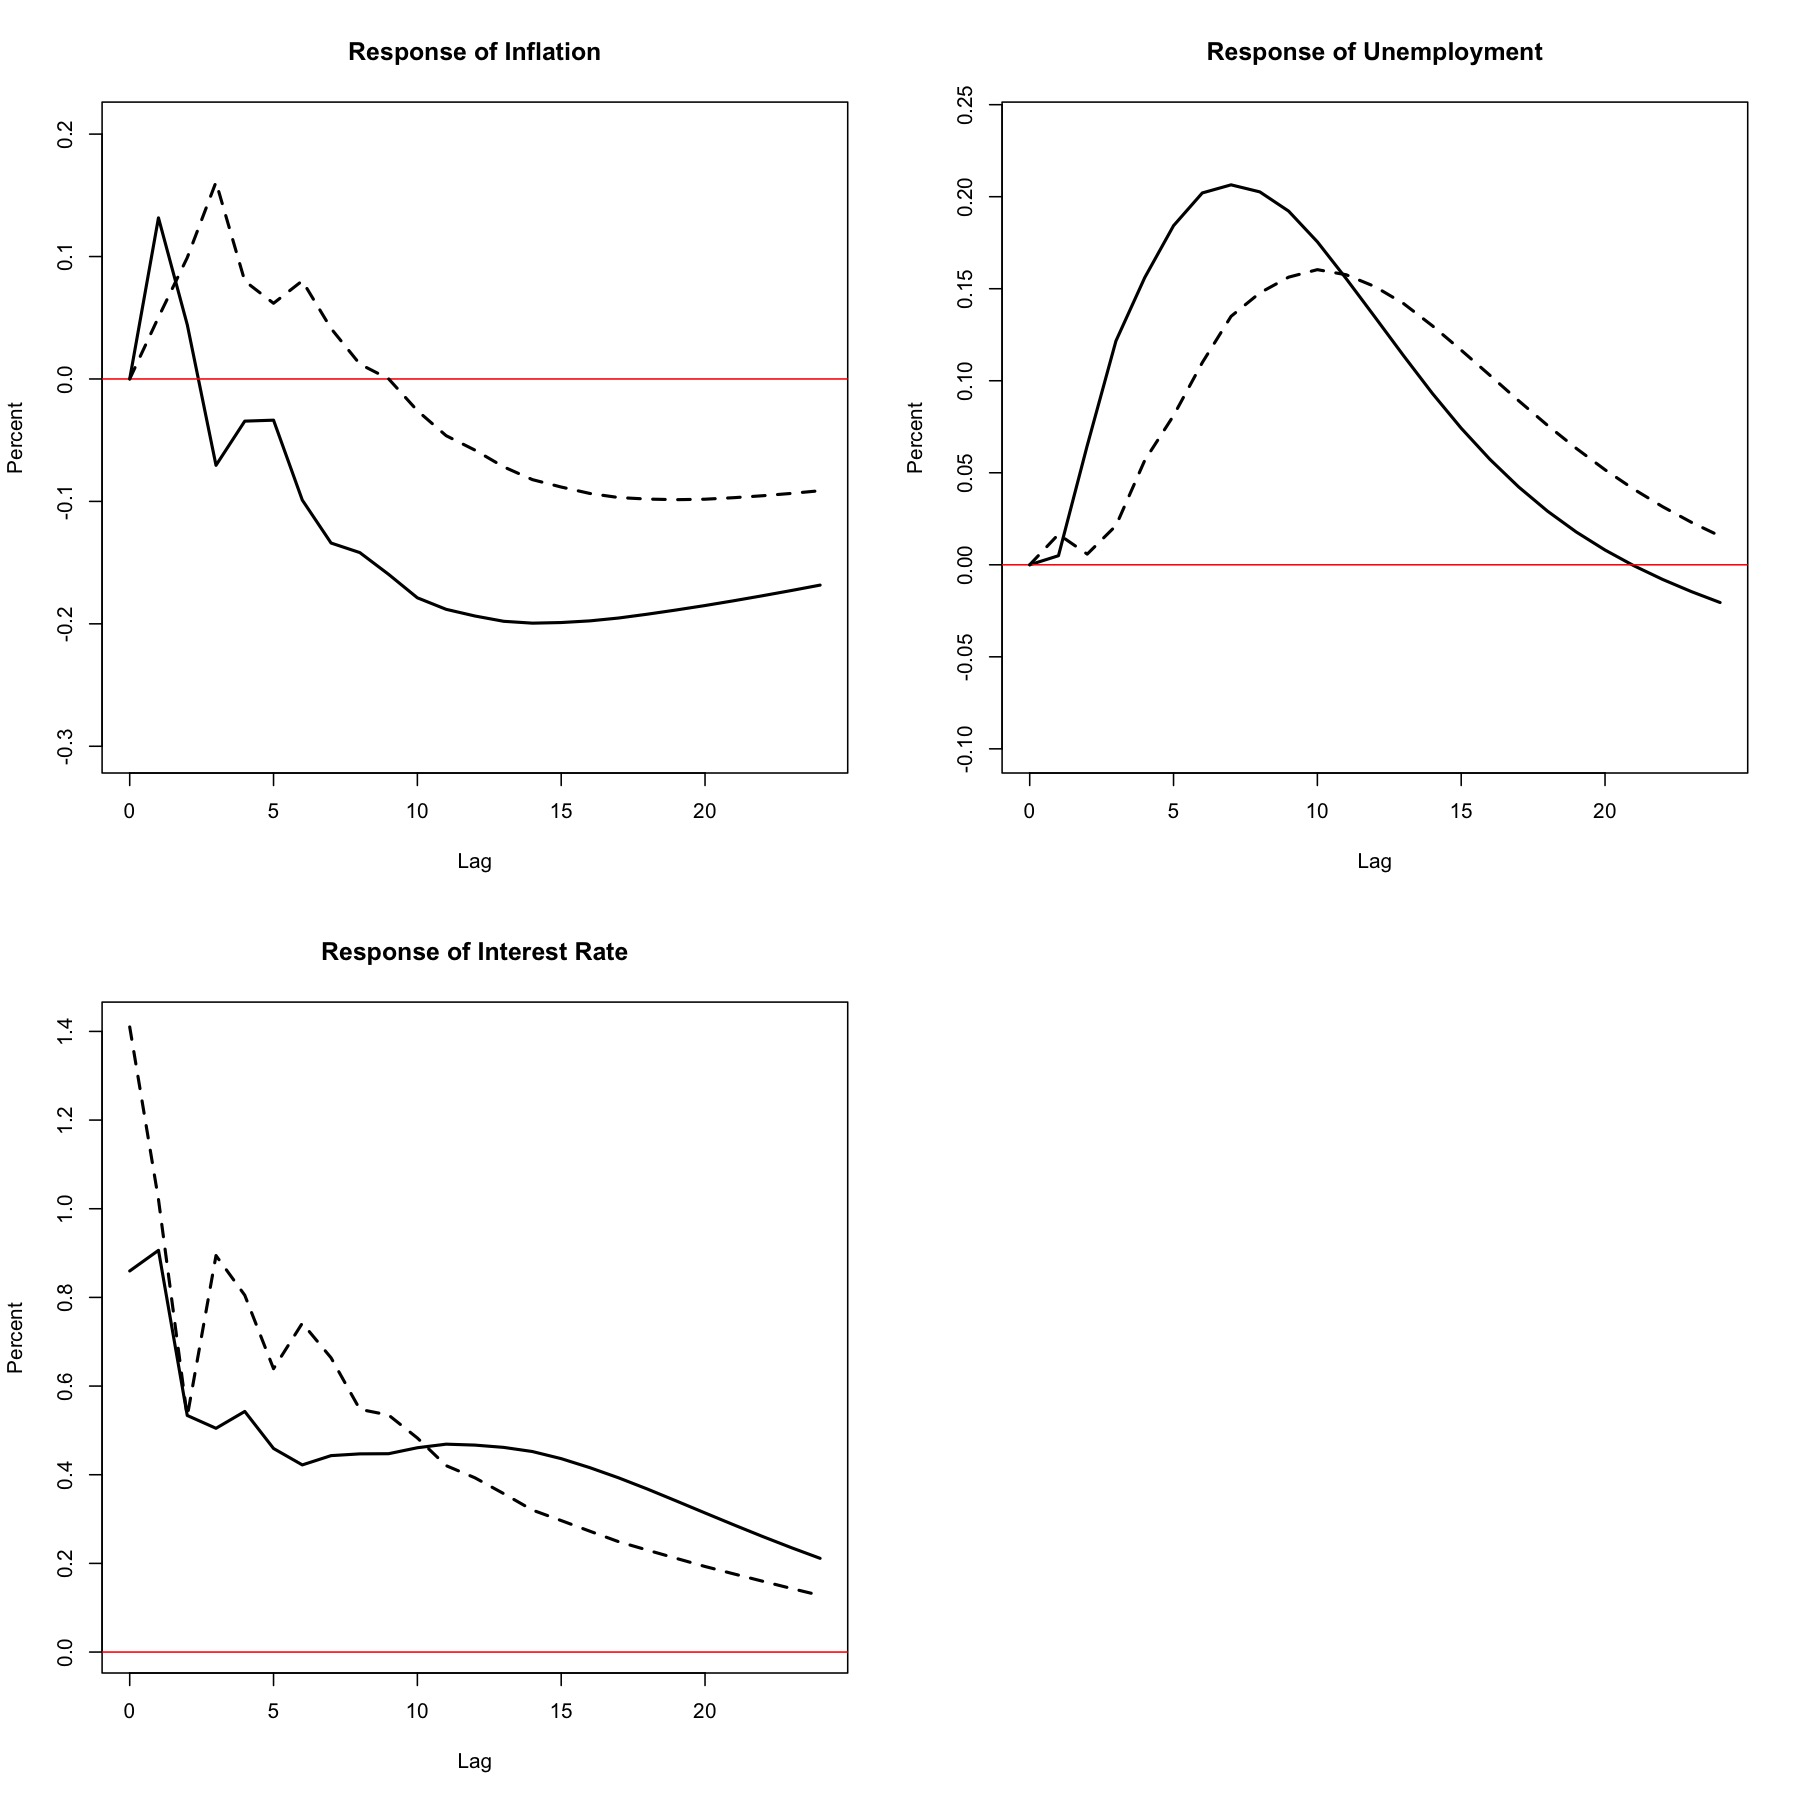
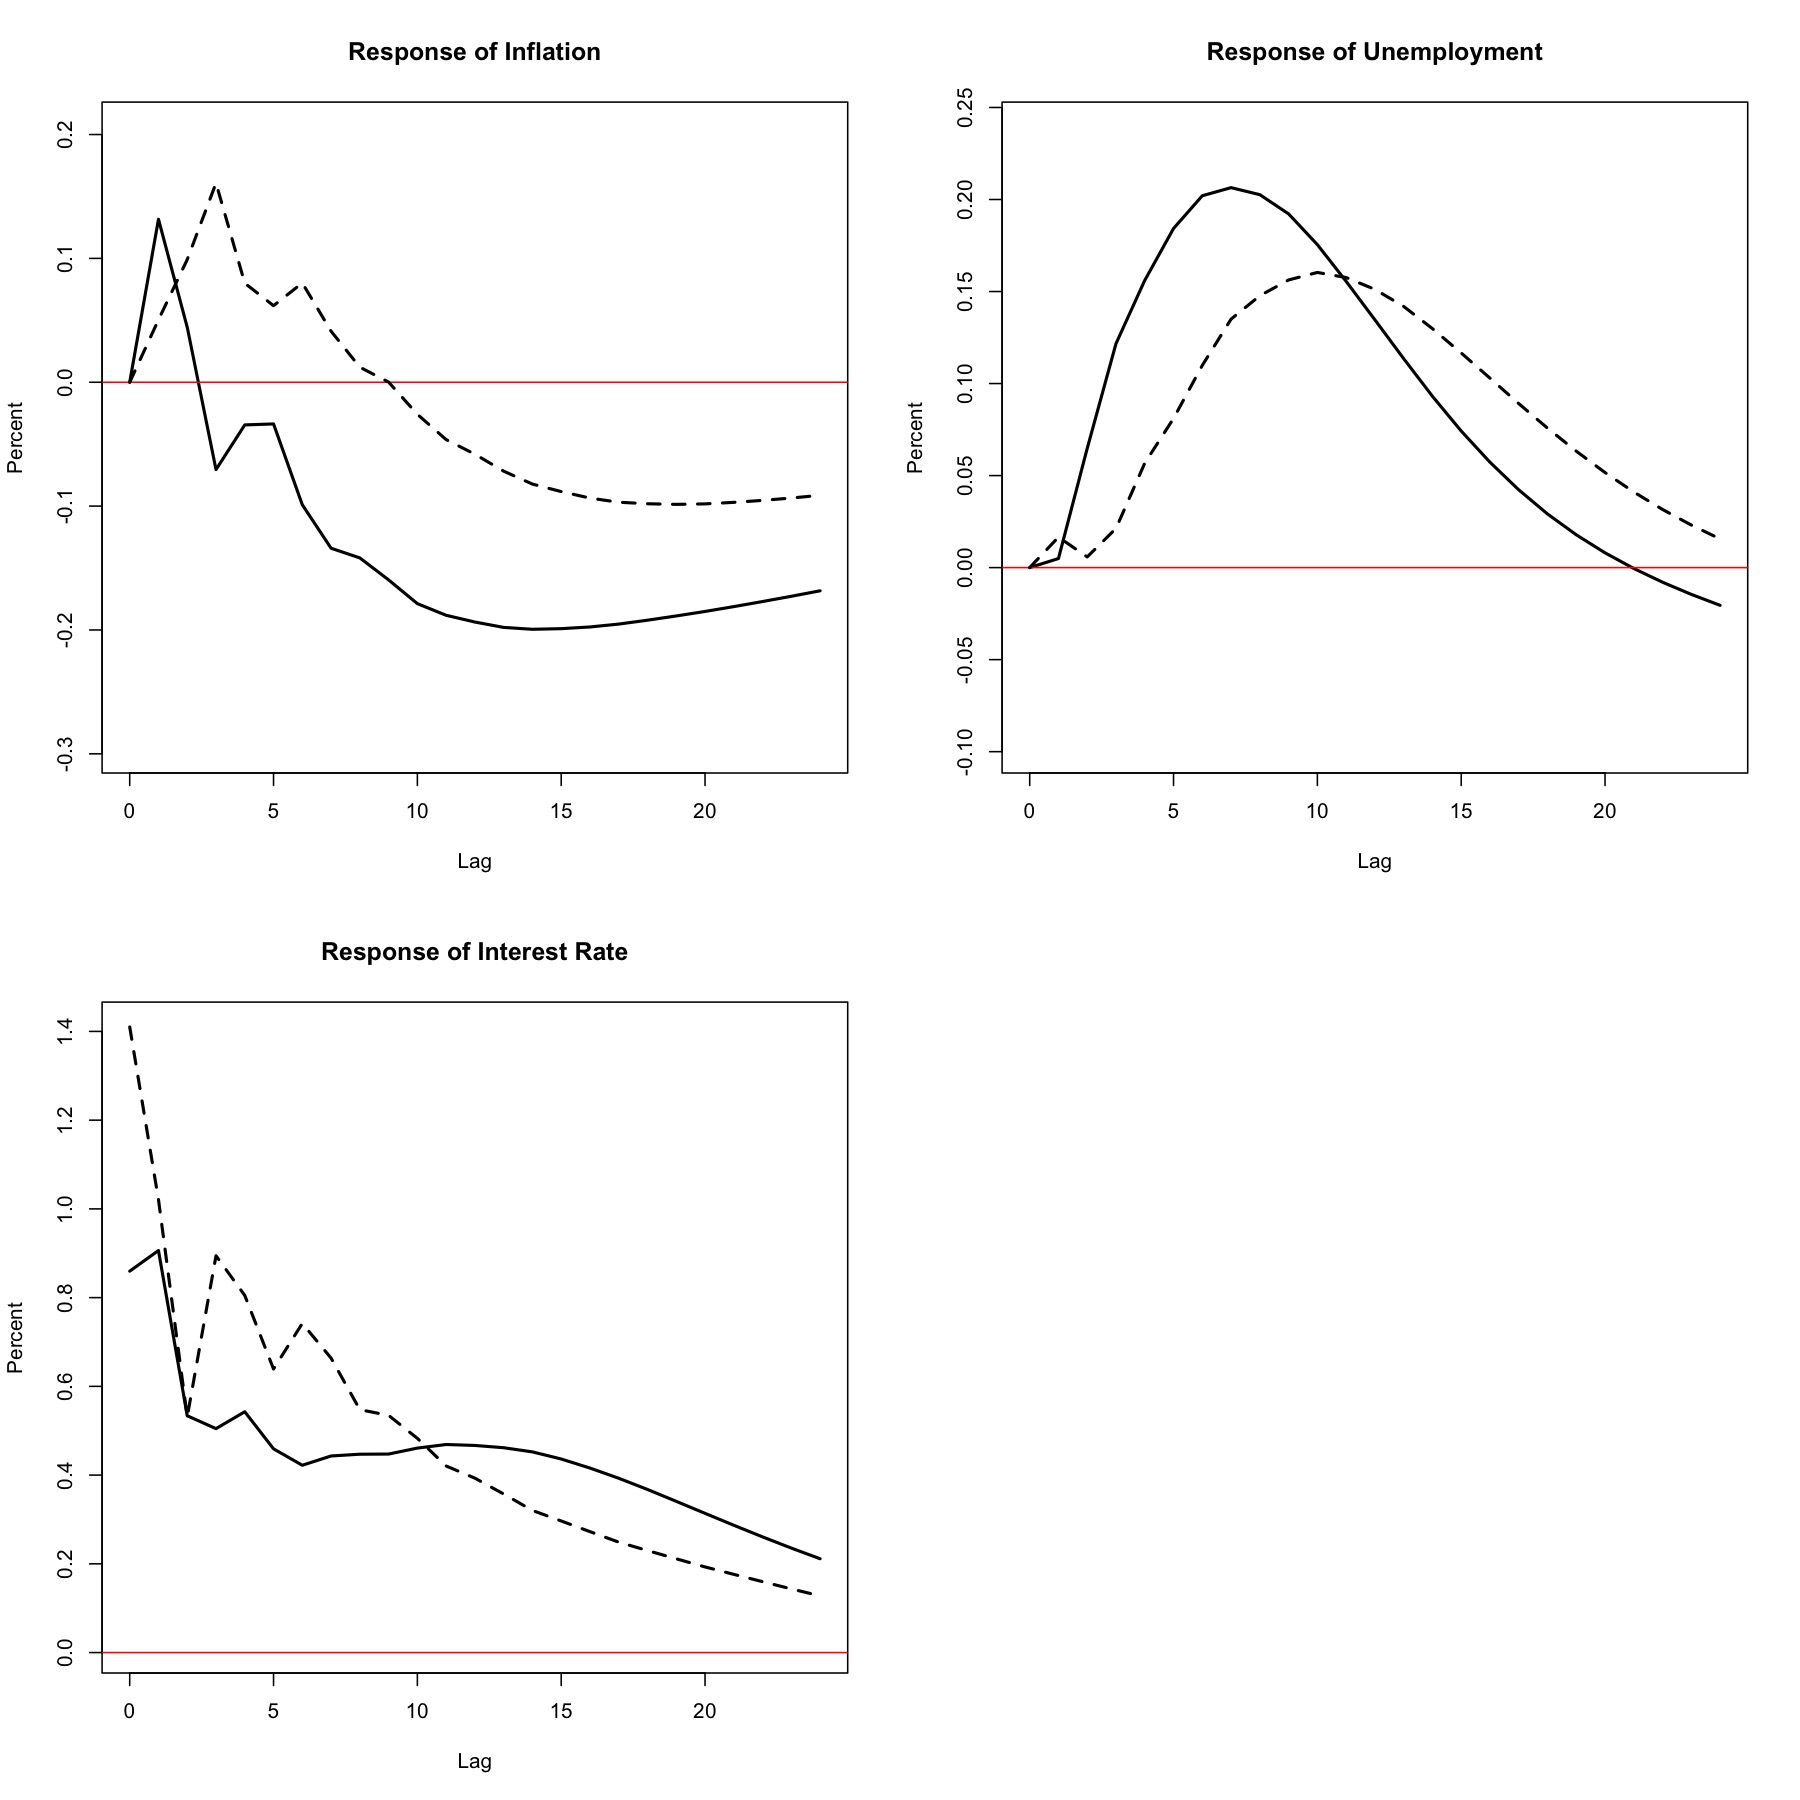
delete of files

diff --git a/Replication/Figures/Preliminaries/LaTeX/diagnostics_1.tex b/Replication/Figures/Preliminaries/LaTeX/diagnostics_1.tex
@@ -1,6 +1,6 @@
 
 % Table created by stargazer v.5.2.3 by Marek Hlavac, Social Policy Institute. E-mail: marek.hlavac at gmail.com
-% Date and time: Tue, May 19, 2026 - 15:07:36
+% Date and time: Tue, May 19, 2026 - 15:15:24
 \begin{table}[!htbp] \centering 
   \caption{Residual Diagnostics} 
   \label{tab:diagnostics_1} 

diff --git a/Replication/Figures/Preliminaries/LaTeX/lag_selection_1.tex b/Replication/Figures/Preliminaries/LaTeX/lag_selection_1.tex
@@ -1,6 +1,6 @@
 
 % Table created by stargazer v.5.2.3 by Marek Hlavac, Social Policy Institute. E-mail: marek.hlavac at gmail.com
-% Date and time: Tue, May 19, 2026 - 15:07:35
+% Date and time: Tue, May 19, 2026 - 15:15:24
 \begin{table}[!htbp] \centering 
   \caption{VAR Lag Order Selection} 
   \label{tab:lag_selection_1} 

diff --git a/Replication/Figures/Preliminaries/LaTeX/roots_1.tex b/Replication/Figures/Preliminaries/LaTeX/roots_1.tex
@@ -1,6 +1,6 @@
 
 % Table created by stargazer v.5.2.3 by Marek Hlavac, Social Policy Institute. E-mail: marek.hlavac at gmail.com
-% Date and time: Tue, May 19, 2026 - 15:07:35
+% Date and time: Tue, May 19, 2026 - 15:15:24
 \begin{table}[!htbp] \centering 
   \caption{VAR Stability Roots} 
   \label{tab:roots_1} 

diff --git a/Replication/Figures/Preliminaries/LaTeX/stationarity_1.tex b/Replication/Figures/Preliminaries/LaTeX/stationarity_1.tex
@@ -1,6 +1,6 @@
 
 % Table created by stargazer v.5.2.3 by Marek Hlavac, Social Policy Institute. E-mail: marek.hlavac at gmail.com
-% Date and time: Tue, May 19, 2026 - 15:07:35
+% Date and time: Tue, May 19, 2026 - 15:15:24
 \begin{table}[!htbp] \centering 
   \caption{Stationarity Tests} 
   \label{tab:stationarity_1} 

diff --git a/README.md b/README.md
@@ -24,7 +24,12 @@ IRFs are computed using the same recursive ordering and horizon, but plotted usi
 30/04/26 "...
 
 15/05/26: I revised the fig 2 (fig 3) replication in order to take the desired variables instead of present, much more convincing output but still different. I began the first extension by looking at spillover effects of US monetary and macro conjoncture on neighbor countries (e.g, US and Mexico). Results yield a strng spillover effect in unemployment and monetary policy in Mexico, we may focus on this after. However, results are not really stable for mexico, due to missing data range....may need to recompute with more reliable data.
+
 15/05/26: preliminaries (stationarity, lag specification are realised, exported in pdf)
+
+19/05/26: the impulse functions of different monetary rules are different from the paper. I tried to look in the original rep package to see how the authors computed it. I used Claude to translate .gss and .srt files and to compare it with my R code.
+
+
 
 
 